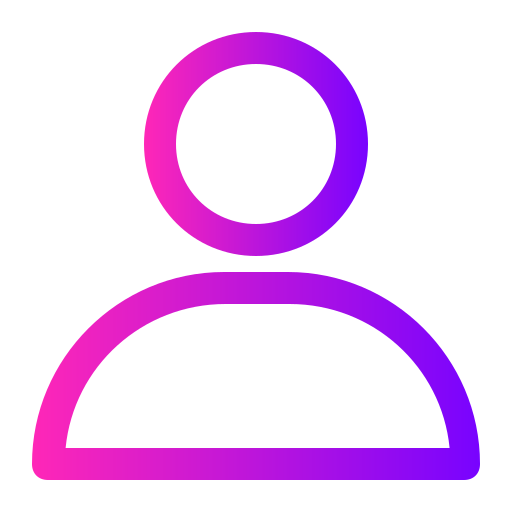
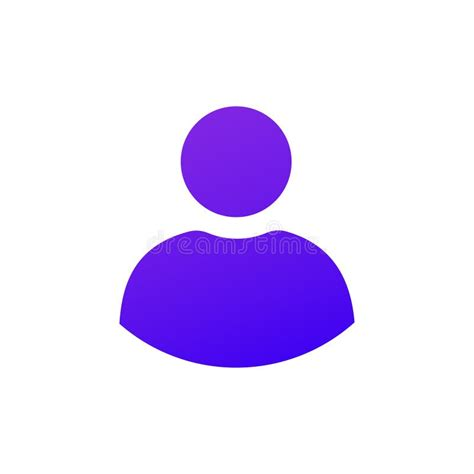
Added new updated api for technician. and replaced alert messages with dedicated uniformly themed popup modals.

diff --git a/home_applience_service_app_front_end/src/components/CustomerDashboard/Products.jsx b/home_applience_service_app_front_end/src/components/CustomerDashboard/Products.jsx
@@ -35,12 +35,16 @@ const Products = () => {
     comment: "",
   });
 
-  const [selectedDate, setSelectedDate] = useState("");
+  const [modalOpen, setModalOpen] = useState(false);
+  const [modalOpenAppointment, setModalOpenAppointment] = useState(false);
+  const [modalMessage, setModalMessage] = useState("");
 
-  const handleDateChange = (e) => {
-    const inputDate = e.target.value;
-    const formattedDate = new Date(inputDate).toISOString().split("T")[0];
-    setSelectedDate(formattedDate);
+  const closeModalPopUp = () => {
+    setModalOpen(false);
+  };
+
+  const closeModalPopUpAppointment = () => {
+    setModalOpenAppointment(false);
   };
 
   const applianceBrandOptions = [
@@ -129,15 +133,11 @@ const Products = () => {
   const handleSubmitService = async (e) => {
     e.preventDefault();
     try {
-      const response = await axios.post(
-        "http://localhost:8080/service/save",
-        formData
-      );
-      alert(
-        "Service request has been successfully registered. You will get a call from our technician team shortly.",
-        response.data
-      );
-      closeModalService();
+      const response = await axios
+        .post("http://localhost:8080/service/save", formData)
+        .then((response) => setModalMessage(response.data.data));
+      setModalOpen(true);
+      setIsOpenService(false);
     } catch (error) {
       console.error("Error submitting service request form:", error);
     }
@@ -168,10 +168,8 @@ const Products = () => {
         "http://localhost:8080/appliance/save",
         formData
       );
-      alert(
-        "Appointment has been successfully registered, You will get a call from our technician team shortly",
-        response.data
-      );
+      setModalOpenAppointment(true);
+      setIsOpen(false);
       closeModal();
     } catch (error) {
       console.error("Error submitting form:", error);
@@ -200,6 +198,45 @@ const Products = () => {
       >
         <div className="bg-white">
           <div className="max-w-7xl mx-auto py-16 px-4 overflow-hidden sm:py-8 sm:px-6 lg:px-3">
+            {modalOpen && (
+              <div className="fixed top-0 left-0 w-full h-full flex justify-center items-center bg-gray-800 bg-opacity-50 text-white z-50">
+                <div className="bg-white p-8 rounded shadow-lg max-w-md flex flex-col">
+                  <p className="text-lg font-semibold mb-4 text-black">
+                    Appointment has been successfully registered, Thank you,
+                    Please Expect a call/email from out technician team.
+                  </p>
+                  <p className="text-lg font-semibold mb-4 text-black">
+                    {modalMessage}
+                  </p>
+                  <button
+                    className="mt-4 ml-auto px-4 py-2 bg-indigo-600 text-white rounded hover:bg-violet-700 focus:outline-none focus:bg-indigo-600"
+                    onClick={closeModalPopUp}
+                  >
+                    Close
+                  </button>
+                </div>
+              </div>
+            )}
+            {modalOpenAppointment && (
+              <div className="fixed top-0 left-0 w-full h-full flex justify-center items-center bg-gray-800 bg-opacity-50 text-white z-50">
+                <div className="bg-white p-8 rounded shadow-lg max-w-md flex flex-col">
+                  <p className="text-lg font-semibold mb-4 text-black">
+                    Service Request has been successfully registered. Please
+                    Book an appointment for appropriate date.
+                  </p>
+                  <p className="text-lg font-semibold mb-4 text-black">
+                    {modalMessage}
+                  </p>
+                  <button
+                    className="mt-4 ml-auto px-4 py-2 bg-indigo-600 text-white rounded hover:bg-violet-700 focus:outline-none focus:bg-indigo-600"
+                    onClick={closeModalPopUpAppointment}
+                  >
+                    Close
+                  </button>
+                </div>
+              </div>
+            )}
+
             <div className="grid grid-cols-1 gap-y-10 gap-x-6 sm:grid-cols-2 lg:grid-cols-3 lg:gap-x-8">
               {products.map((product) => (
                 <div key={product.id}>
@@ -226,14 +263,14 @@ const Products = () => {
                     className="mt-5 bg-transparent hover:bg-indigo-500 text-indigo-700 font-semibold hover:text-white py-1 px-3 border border-indigo-500 hover:border-transparent rounded-2xl"
                     onClick={() => openModal(product)}
                   >
-                    Book Appointment
+                    Service Request
                   </button>
                   <button
                     type="button"
                     className="mt-5 mx-4 bg-transparent hover:bg-indigo-500 text-indigo-700 font-semibold hover:text-white py-1 px-3 border border-indigo-500 hover:border-transparent rounded-2xl"
                     onClick={() => openModalService(product)}
                   >
-                    Service Request
+                    Book Appointment
                   </button>
                 </div>
               ))}
@@ -248,7 +285,7 @@ const Products = () => {
         contentLabel="Book Appointment Modal"
       >
         <h2 className="text-xl font-bold mb-4">
-          Book Appointment for {selectedProduct && selectedProduct.name}
+          Raise A Service Request for {selectedProduct && selectedProduct.name}
         </h2>
         <form onSubmit={handleSubmit}>
           <div className="mb-4">
@@ -383,7 +420,7 @@ const Products = () => {
         contentLabel="Service Request Modal"
       >
         <h2 className="text-xl font-bold mb-4">
-          Raise a Service Request for {selectedProduct && selectedProduct.name}
+          Book Appointment for {selectedProduct && selectedProduct.name}
         </h2>
         <form onSubmit={handleSubmitService}>
           <div className="mb-4">

diff --git a/home_applience_service_app_front_end/src/Pages/Dashboards/CustomerDashboard/CustomerDashboard.jsx b/home_applience_service_app_front_end/src/Pages/Dashboards/CustomerDashboard/CustomerDashboard.jsx
@@ -10,7 +10,7 @@ const user = {
   name: "user",
   email: "tom@example.com",
   imageUrl:
-    "https://images.unsplash.com/photo-1472099645785-5658abf4ff4e?ixlib=rb-1.2.1&ixid=eyJhcHBfaWQiOjEyMDd9&auto=format&fit=facearea&facepad=2&w=256&h=256&q=80",
+    "https://external-content.duckduckgo.com/iu/?u=https%3A%2F%2Ftse2.mm.bing.net%2Fth%3Fid%3DOIP.azdGx4FxdBOMQWXjf6Bk-wHaHa%26pid%3DApi&f=1&ipt=946bb1e4e8a73f4887d4d9ebcbb2a6d298208afde487d710fc3b39630248f060&ipo=images",
 };
 const navigation = [{ name: "Dashboard", to: "#", current: true }];
 const userNavigation = [{ name: "Log out", to: "/" }];
